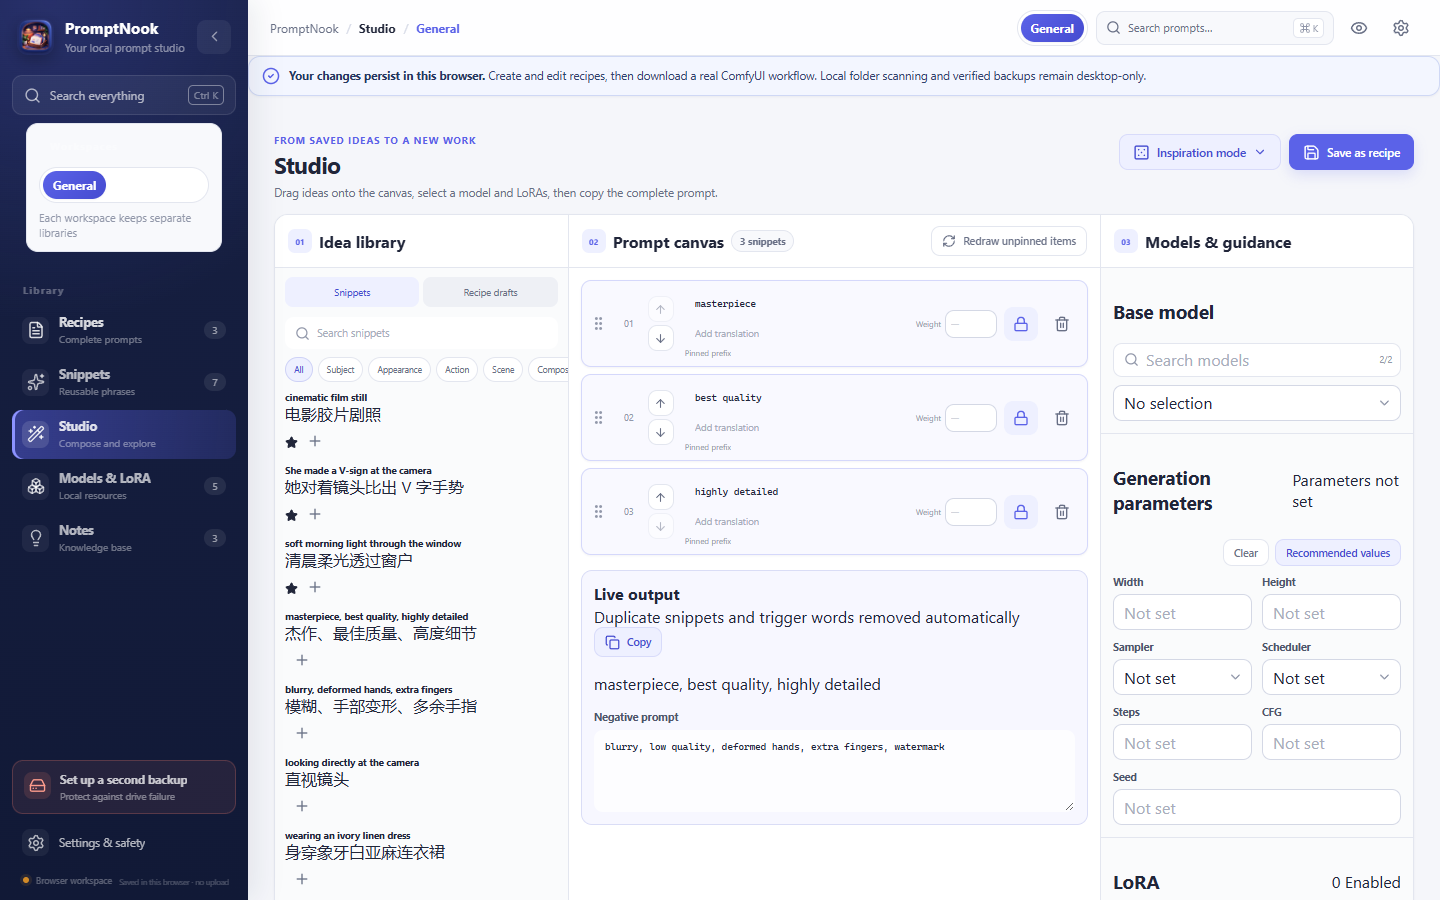
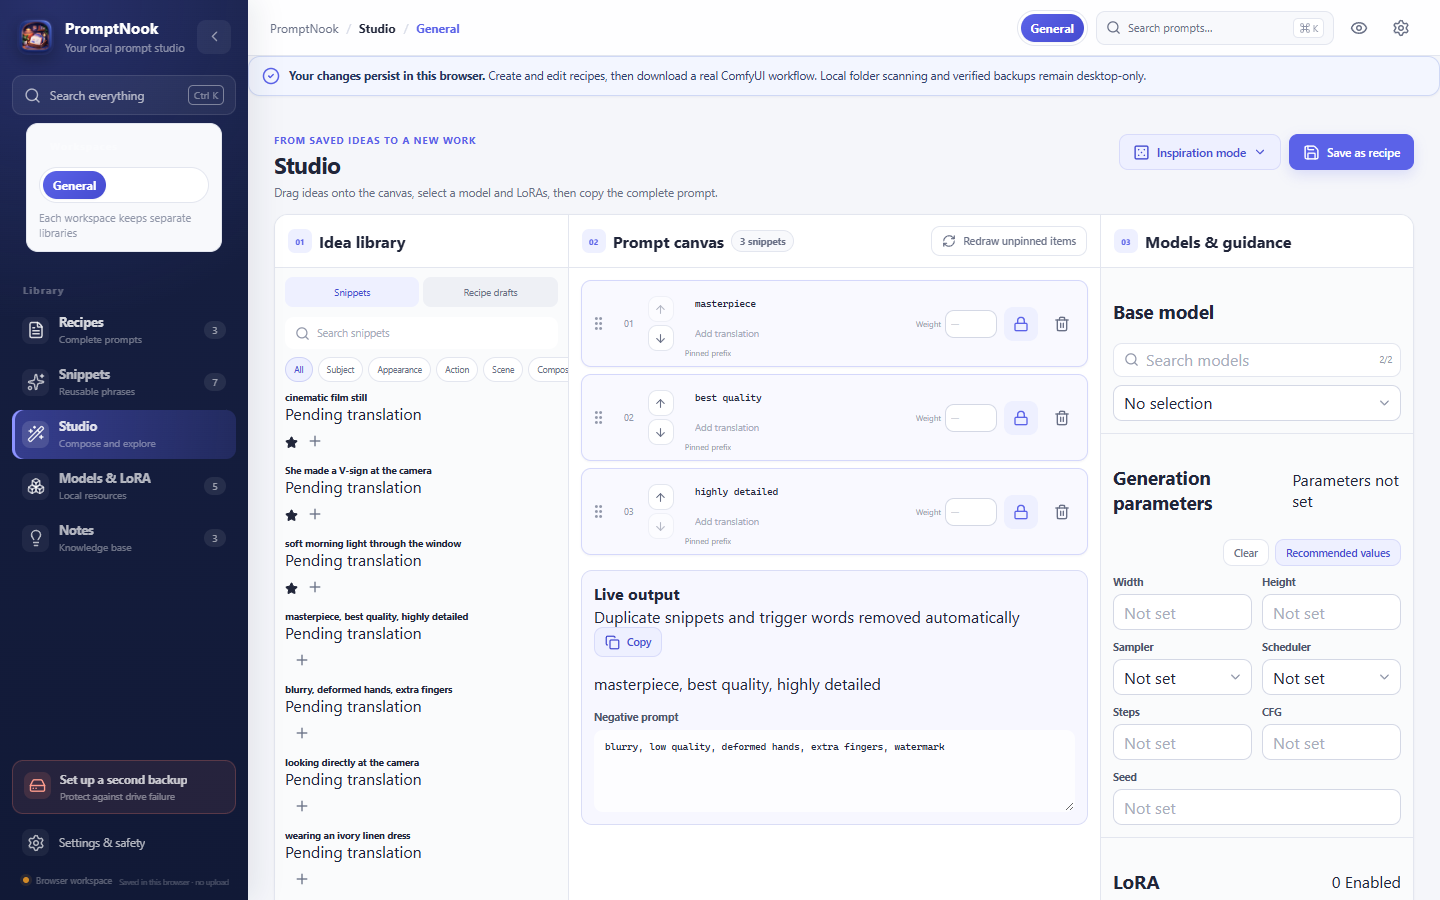
Release/0.2.2 beta.1 (#25)
* Fix English starter experience and prepare Windows preview 0.2.2

* Prepare Microsoft Store MSIX packaging and submission guide

---------

diff --git a/src/lib/api.ts b/src/lib/api.ts
@@ -148,7 +148,7 @@ const starterSnippets: Snippet[] = [
   {
     id: "snippet-vsign",
     text: "She made a V-sign at the camera",
-    translation: "她对着镜头比出 V 字手势",
+    translation: "",
     notes: "Works best for half-body portraits with hands away from the lens.",
     categoryIds: ["cat-subject", "cat-action"],
     favorite: true,
@@ -161,7 +161,7 @@ const starterSnippets: Snippet[] = [
   {
     id: "snippet-window",
     text: "soft morning light through the window",
-    translation: "清晨柔光透过窗户",
+    translation: "",
     notes: "",
     categoryIds: ["cat-light", "cat-scene"],
     favorite: true,
@@ -174,7 +174,7 @@ const starterSnippets: Snippet[] = [
   {
     id: "snippet-eye",
     text: "looking directly at the camera",
-    translation: "直视镜头",
+    translation: "",
     notes: "",
     categoryIds: ["cat-subject", "cat-camera"],
     favorite: false,
@@ -187,7 +187,7 @@ const starterSnippets: Snippet[] = [
   {
     id: "snippet-dress",
     text: "wearing an ivory linen dress",
-    translation: "身穿象牙白亚麻连衣裙",
+    translation: "",
     notes: "",
     categoryIds: ["cat-appearance"],
     favorite: false,
@@ -200,7 +200,7 @@ const starterSnippets: Snippet[] = [
   {
     id: "snippet-film",
     text: "cinematic film still",
-    translation: "电影胶片剧照",
+    translation: "",
     notes: "Pairs well with film grain.",
     categoryIds: ["cat-style"],
     favorite: true,
@@ -213,7 +213,7 @@ const starterSnippets: Snippet[] = [
   {
     id: "snippet-quality",
     text: "masterpiece, best quality, highly detailed",
-    translation: "杰作、最佳质量、高度细节",
+    translation: "",
     notes: "",
     categoryIds: ["cat-quality"],
     favorite: false,
@@ -226,7 +226,7 @@ const starterSnippets: Snippet[] = [
   {
     id: "snippet-negative",
     text: "blurry, deformed hands, extra fingers",
-    translation: "模糊、手部变形、多余手指",
+    translation: "",
     notes: "",
     categoryIds: ["cat-negative"],
     favorite: false,
@@ -246,10 +246,9 @@ const starterRecipes: Recipe[] = [
     modality: "text_to_image",
     positivePrompt:
       "masterpiece, best quality, cinematic film still, a young woman wearing an ivory linen dress, (soft morning light through the window:1.2), looking directly at the camera",
-    positiveTranslation:
-      "杰作，最佳质量，电影胶片剧照，一位身穿象牙白亚麻连衣裙的年轻女性，清晨柔光透过窗户，直视镜头",
+    positiveTranslation: "",
     negativePrompt: "blurry, deformed hands, extra fingers, watermark",
-    negativeTranslation: "模糊，手部变形，多余手指，水印",
+    negativeTranslation: "",
     modelId: "model-flux",
     modelName: "FLUX.1-dev-fp8",
     loras: [
@@ -289,9 +288,9 @@ const starterRecipes: Recipe[] = [
     modality: "text_to_image",
     positivePrompt:
       "cinematic night street, neon reflections on wet pavement, lone figure holding a transparent umbrella, teal and amber light",
-    positiveTranslation: "电影感夜晚街道，湿润路面的霓虹倒影，独自撑着透明雨伞的人物，青橙色灯光",
+    positiveTranslation: "",
     negativePrompt: "daylight, low contrast, text",
-    negativeTranslation: "日光、低对比度、文字",
+    negativeTranslation: "",
     modelId: "model-sdxl",
     modelName: "DreamShaper XL Turbo",
     loras: [],
@@ -321,9 +320,9 @@ const starterRecipes: Recipe[] = [
     modality: "text_to_image",
     positivePrompt:
       "luxury perfume bottle on travertine pedestal, warm directional sunlight, long geometric shadows, editorial product photography, clean beige background",
-    positiveTranslation: "洞石台座上的奢华香水瓶，温暖的方向性阳光，长几何阴影，编辑风产品摄影，干净米色背景",
+    positiveTranslation: "",
     negativePrompt: "people, clutter, label errors, warped glass",
-    negativeTranslation: "人物、杂乱、标签错误、玻璃变形",
+    negativeTranslation: "",
     modelId: "model-sdxl",
     modelName: "DreamShaper XL Turbo",
     loras: [],
@@ -1166,27 +1165,7 @@ export const api = {
         "translate_text",
         { request },
         async () => {
-          await new Promise((resolve) => window.setTimeout(resolve, 350));
-          const dictionary: Record<string, string> = {
-            "best quality": "最佳质量",
-            masterpiece: "杰作",
-            "highly detailed": "高度细节",
-            "cinematic film still": "电影胶片剧照",
-            "soft lighting": "柔和光线",
-            portrait: "人像",
-            "looking at the camera": "看向镜头",
-          };
-          const translated = request.text
-            .split(/([,，;；\n])/)
-            .map((part) => dictionary[part.trim().toLowerCase()] ?? part)
-            .join("");
-          return {
-            text:
-              translated === request.text
-                ? "Pending translation · Configure a translation service in Settings"
-                : translated,
-            cached: false,
-          };
+          throw new Error("Prompt translation requires the desktop app with a configured translation provider. Your original prompt has not been translated.");
         },
       ),
       TRANSLATION_UI_TIMEOUT_MS,

diff --git a/src/lib/api.test.ts b/src/lib/api.test.ts
@@ -381,6 +381,7 @@ describe("search and translation fallback", () => {
   it("searches translated recipe text, snippet translations/categories, and tips", async () => {
     await api.saveSnippet(makeSnippet());
 
+    await api.saveRecipe({ ...makeRecipe(), positiveTranslation: "清晨柔光" });
     const recipeResults = await api.searchAll("清晨柔光");
     const translationResults = await api.searchAll("日落时");
     const categoryResults = await api.searchAll("Subject");
@@ -389,7 +390,7 @@ describe("search and translation fallback", () => {
     expect(recipeResults).toEqual(
       expect.arrayContaining([
         expect.objectContaining({
-          id: "recipe-window",
+          id: "recipe-browser-test",
           entityType: "recipe",
         }),
       ]),
@@ -421,36 +422,11 @@ describe("search and translation fallback", () => {
     expect(await api.searchAll("   ")).toEqual([]);
   });
 
-  it("uses the built-in dictionary, preserves delimiters, and reports uncached results", async () => {
-    vi.useFakeTimers();
-    const source =
-      "masterpiece, best quality，portrait;soft lighting\nlooking at the camera";
-
-    const firstPromise = api.translateText({ text: source });
-    await vi.advanceTimersByTimeAsync(350);
-    const first = await firstPromise;
-
-    expect(first).toEqual({
-      text: "杰作,最佳质量，人像;柔和光线\n看向镜头",
-      cached: false,
-    });
-
-    const repeatedPromise = api.translateText({ text: source });
-    await vi.advanceTimersByTimeAsync(350);
-    const repeated = await repeatedPromise;
-
-    expect(repeated.text).toBe(first.text);
-    expect(repeated.cached).toBe(false);
-
-    const unknownPromise = api.translateText({
-      text: "an untranslated browser fallback phrase",
-    });
-    await vi.advanceTimersByTimeAsync(350);
-
-    await expect(unknownPromise).resolves.toEqual({
-      text: "Pending translation · Configure a translation service in Settings",
-      cached: false,
-    });
+  it("rejects unsupported browser translation instead of returning Chinese or placeholder content", async () => {
+    await expect(api.translateText({ text: "masterpiece, portrait", targetLanguage: "en" }))
+      .rejects.toThrow("Prompt translation requires the desktop app");
+    await expect(api.translateText({ text: "a landscape", targetLanguage: "fr" }))
+      .rejects.toThrow("Prompt translation requires the desktop app");
   });
 });
 

diff --git a/src/components/SettingsDrawer.tsx b/src/components/SettingsDrawer.tsx
@@ -416,6 +416,12 @@ export function SettingsDrawer({
             <div className="settings-section">
               <div className="section-heading">
                 <div>
+                  <h3>Interface language: English</h3>
+                  <p>The interface currently uses English. A UI language switch is not available yet. Your prompts and optional translations can use any language.</p>
+                </div>
+              </div>
+              <div className="section-heading">
+                <div>
                   <h3>Prompt workspaces</h3>
                   <p>
                     Create a separate recipe and snippet library for every model
@@ -573,8 +579,8 @@ export function SettingsDrawer({
             <div className="settings-section">
               <div className="section-heading">
                 <div>
-                  <h3>Translation</h3>
-                  <p>Choose any target language. A glossary runs before an optional local or compatible service.</p>
+                  <h3>Prompt translation</h3>
+                  <p>Translate prompt content, not the interface. Choose any target language supported by your desktop translation provider. Online and local translation services require the desktop app; the browser workspace does not call them.</p>
                 </div>
                 <Languages size={21} />
               </div>

diff --git a/e2e/browser-fallback.spec.ts b/e2e/browser-fallback.spec.ts
@@ -85,7 +85,7 @@ test("browser fallback supports the five destinations and a snippet creation jou
     "gemini-3.1-flash-lite",
   );
   await settings.getByRole("button", { name: "Test translation" }).click();
-  await expect(settings.getByText(/Connection successful.*电影胶片剧照/i)).toBeVisible();
+  await expect(settings.getByText(/Prompt translation requires the desktop app/)).toBeVisible();
   await expect(settings.getByRole("button", { name: "Test translation" })).toBeEnabled();
 });
 

diff --git a/src/App.test.tsx b/src/App.test.tsx
@@ -46,7 +46,7 @@ describe("PromptNook browser fallback smoke", () => {
     expect(searchDialog).toBeInTheDocument();
     fireEvent.change(
       screen.getByPlaceholderText("Search prompts, translations, categories, or models…"),
-      { target: { value: "镜头" } },
+      { target: { value: "V-sign" } },
     );
 
     expect(

diff --git a/docs/MICROSOFT_STORE.md b/docs/MICROSOFT_STORE.md
@@ -1,0 +1,58 @@
+# Microsoft Store submission
+
+Distribution route: MSIX submitted to Microsoft Store, which signs accepted packages. The existing NSIS EXE is not the Store submission package.
+
+## Account information required
+
+Register a developer account, reserve the application name, then copy these exact values from Product identity in Partner Center:
+
+- Package/Identity/Name
+- Package/Identity/Publisher
+- Package/Properties/PublisherDisplayName
+
+Do not invent publisher identifiers. Do not share account passwords, identity documents or verification codes with project contributors.
+
+## Build
+
+Run `scripts/build-msix.ps1` with `-IdentityName`, `-Publisher` and `-PublisherDisplayName` from Partner Center. The default Store version is `0.2.2.0`; Store versions are four numeric parts, not SemVer prerelease strings. The script builds the unbundled Tauri executable and validates the package with Windows SDK MakeAppx. `-SkipBuild` is for explicitly reusing an already verified local build.
+
+Outputs and staging folders are ignored under `release-artifacts/msix`. Unsigned submission packages are not intended for public sideloading. Do not install a development certificate on users' computers.
+
+Initial target: Windows 11 x64, English UI. Windows 10 and ARM64 are not advertised. Verify Microsoft Edge WebView2 Runtime availability on a clean target machine. MSIX does not run the NSIS WebView2 bootstrapper.
+
+## Certification notes draft
+
+PromptNook is a Tauri desktop application for managing a local SQLite prompt library. No PromptNook login is required. The runFullTrust capability is required for the native desktop process, user-selected checkpoint/LoRA folder scanning, local file import/export, backup/restore and Windows Credential Manager access for optional user-configured translation credentials. The app does not require administrator privileges. Translation services are optional and may require a separately obtained API key and third-party charges. No models or image-generation engine are bundled.
+
+Reviewer flow: create a workspace, save a recipe and snippet, search, edit generation settings, export checkpoint-based ComfyUI JSON, create a backup, restore it, and restart to confirm persistence. Actual image generation requires a separate ComfyUI installation and matching models.
+
+## Listing draft
+
+Title: PromptNook
+
+Short description: Keep image-generation prompts, model notes and settings together, then export editable ComfyUI workflows.
+
+Description: Organize prompt recipes, reusable snippets, checkpoints, LoRAs, trigger words and generation settings in a local workspace. Search your library, assemble prompts in Studio, and export checkpoint-based text-to-image recipes as ComfyUI Workflow JSON. Desktop tools include model-folder scanning, revision history and verified portable backups. Prompt translation is optional and uses a provider you configure. The interface is English; your own content may use any language. PromptNook does not generate images or include model weights. FLUX and arbitrary custom-node workflow export are not currently supported.
+
+Category suggestion: Developer tools (confirm available categories in Partner Center).
+
+Support: https://github.com/Rona1do/PromptNook/issues
+
+Privacy policy source: docs/PRIVACY.md. Supply a publicly accessible URL and verify its contents before submission.
+
+Screenshots: docs/screenshots/recipes.png, studio.png, models-and-loras.png. These represent the frontend; replace with actual packaged-desktop screenshots before certification.
+
+## Still required before submission
+
+- Exact Partner Center identity and reserved name.
+- Clean Windows 11 installation/launch and WebView2 dependency verification.
+- Test packaged data paths, Credential Manager, local folder access, backup/restore, upgrade and uninstall. MSIX virtualization may change storage behavior; never assume automatic migration from the NSIS version. Export a portable backup before switching distributions.
+- Complete truthful age rating, privacy declarations and runFullTrust justification.
+- Use a private testing audience/flight before broad release where available.
+- Store review and signing; do not advertise Store availability until approved.
+
+SignPath Foundation declined the free certificate application because the project had insufficient public adoption/trust signals. Signing was not rejected on a finding of poor code quality. Microsoft Store is now the primary planned signed distribution channel.
+
+References:
+- https://learn.microsoft.com/en-us/windows/apps/dev-tools/winapp-cli/guides/tauri
+- https://learn.microsoft.com/en-us/windows/msix/desktop/desktop-to-uwp-manual-conversion

diff --git a/docs/CODE_SIGNING.md b/docs/CODE_SIGNING.md
@@ -1,16 +1,16 @@
 # Code signing policy
 
-PromptNook does not publish unsigned Windows executables or installers as official GitHub Release assets. Development builds may be produced locally for testing, but they must be clearly marked as unsigned and kept outside version control.
+Stable Windows releases require trusted signatures. Preview releases may include unsigned Windows installers when the release is marked as a prerelease and both the asset name and release notes explicitly identify it as unsigned. Never describe an unsigned preview as signed or as guaranteed free of security warnings. Binary files remain outside source control.
 
 ## Release requirements
 
 - Release binaries must be built from the public repository by a reproducible GitHub Actions workflow.
-- The application executable and installer must carry a trusted Authenticode signature and timestamp.
+- For stable releases, the application executable and installer must carry a trusted Authenticode signature and timestamp. For unsigned previews, record the actual signature status and do not list a verified publisher.
 - The release page must identify the expected publisher and provide SHA-256 checksums.
 - Signing credentials must remain in a managed signing service or hardware-backed store; they are never committed to the repository.
 - Every signing request requires explicit approval by the maintainer.
 
-The preferred route for this open-source project is a SignPath Foundation subscription. The application is currently pending. If accepted, official Windows releases will state: **Free code signing provided by SignPath.io, certificate by SignPath Foundation.** Until the application is accepted and the workflow is configured, releases contain source archives only.
+The SignPath Foundation application was declined because the project had insufficient public adoption and trust signals. Microsoft Store MSIX distribution is now the primary planned signed channel; see [Store preparation](MICROSOFT_STORE.md). Microsoft signs accepted Store packages, not the separate NSIS EXE distributed on GitHub. Store certification is still pending submission. Source archives and clearly labelled unsigned previews may be distributed in the meantime. Do not claim SignPath sponsorship or signing.
 
 ## Team roles
 

diff --git a/docs/RELEASING.md b/docs/RELEASING.md
@@ -6,14 +6,14 @@
 2. Update `CHANGELOG.md` and version fields in `package.json`, `src-tauri/Cargo.toml`, and `src-tauri/tauri.conf.json`.
 3. Run the full frontend and Rust checks documented in `README.md`.
 4. Build the Windows installer with `npm run tauri:build` on a clean supported machine.
-5. Sign the executable and installer through the approved trusted signing workflow. Never publish an unsigned Windows binary as an official release asset.
-6. Install and smoke-test the signed package, including first launch, workspace creation, backup, restore, and uninstall.
+5. For stable releases, sign the executable and installer through the approved trusted signing workflow. For unsigned previews, include `UNSIGNED` in the asset name and clearly disclose the signature status.
+6. Install and smoke-test the package, including first launch, workspace creation, backup, restore, and uninstall. Record any unverified checks explicitly; do not describe a build-only check as an installation test.
 7. Generate SHA-256 checksums for release assets and verify the Authenticode signature.
 8. Create a signed tag when signing is configured, then draft a GitHub release from the changelog.
 
 ## Source-only prereleases
 
-Until trusted Windows signing is approved, maintainers may publish a clearly labelled GitHub prerelease containing GitHub's generated source archives only. Do not attach an unsigned installer or portable executable. The release notes must state that no official binary is available, link to the browser demo, include local build instructions, and list known compatibility boundaries.
+Until trusted Windows signing is approved, maintainers may publish source-only prereleases or attach clearly labelled unsigned preview installers. Include SHA-256 checksums, link to the browser workspace, and list known compatibility boundaries. Do not ask users to disable antivirus or other security protections. The manual Windows preview workflow produces an installer and checksum artifact without automatically publishing it.
 
 ## Release notes
 

diff --git a/CHANGELOG.md b/CHANGELOG.md
@@ -2,6 +2,19 @@
 
 All notable changes will be documented here. The format follows Keep a Changelog, and the project intends to use Semantic Versioning after the first stable release.
 
+## [0.2.2-beta.1] - 2026-09-07
+
+### Fixed
+
+- New browser workspaces start with English sample content without prefilled Chinese translations. Existing saved content is preserved.
+- Settings explicitly identifies English as the current interface language and distinguishes prompt translation from UI localization.
+- Browser translation now reports that a desktop provider is required instead of returning fixed Chinese dictionary results or placeholder text as a translation.
+
+### Distribution
+
+- Windows preview packages are unsigned. Signing approval remains pending; an unsigned package must not be described as signed or guaranteed free of security warnings.
+- There is no interface language switch yet. Checkpoint-based ComfyUI export is supported; FLUX and arbitrary custom-node graphs remain outside this release.
+
 ## [0.2.1-beta.1] - 2026-09-05
 
 ### Added
